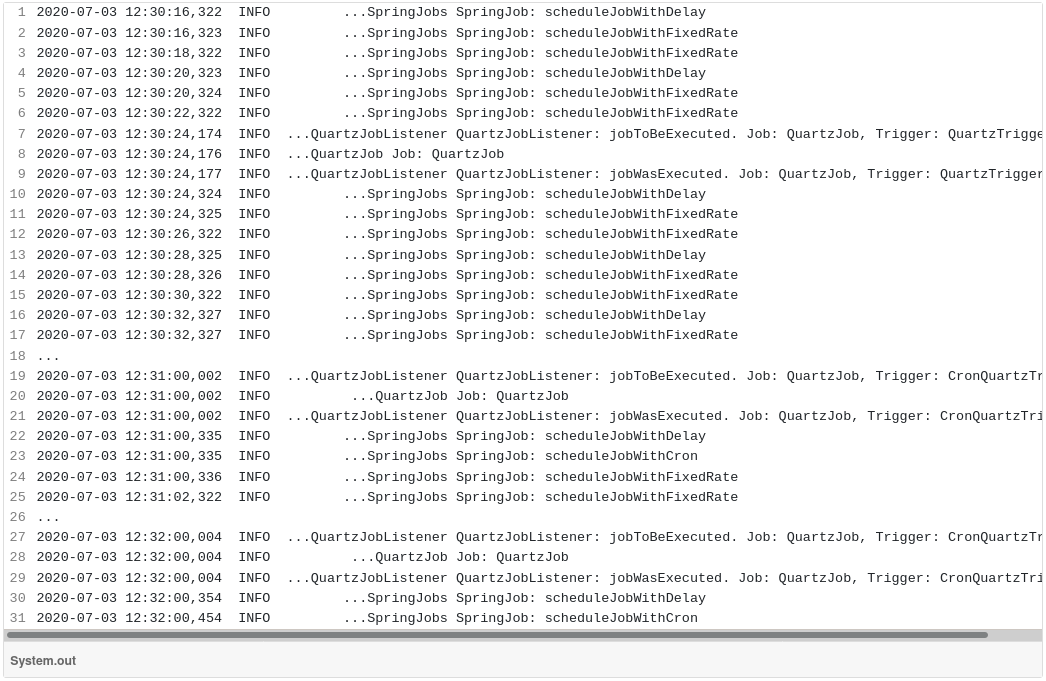
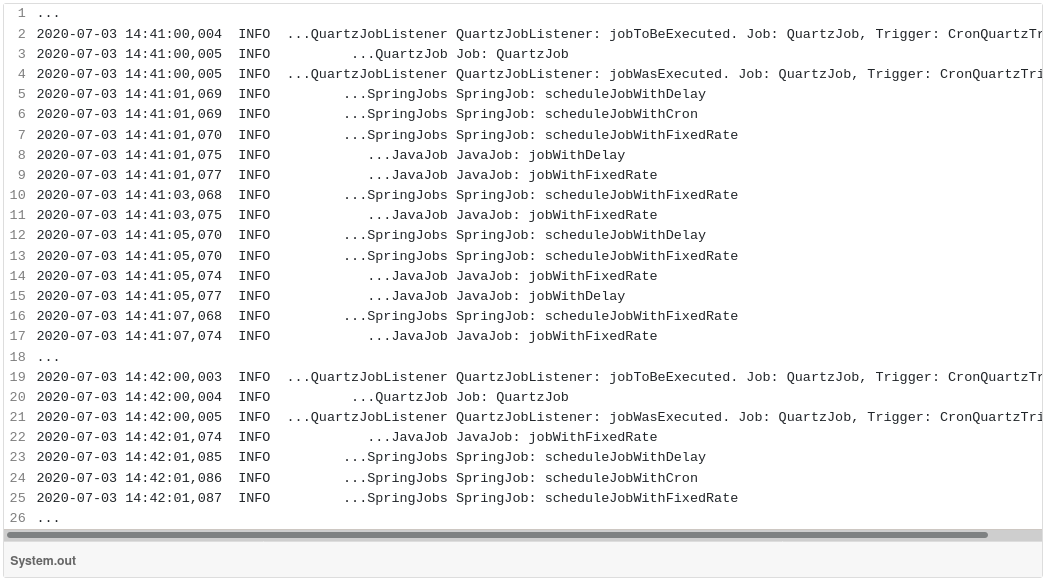
Pequeños retoques

diff --git a/content/2020/2020-07-03-tareas-programadas-de-forma-periodica-con-quartz-y-spring-en-java/code/Main-1.java b/content/2020/2020-07-03-tareas-programadas-de-forma-periodica-con-quartz-y-spring-en-java/code/Main-1.java
@@ -9,21 +9,35 @@ import org.quartz.SchedulerException;
 import org.quartz.SimpleScheduleBuilder;
 import org.quartz.Trigger;
 import org.quartz.TriggerBuilder;
+import org.springframework.beans.factory.annotation.Autowired;
 import org.springframework.beans.factory.annotation.Qualifier;
 import org.springframework.boot.CommandLineRunner;
 import org.springframework.boot.SpringApplication;
 import org.springframework.boot.autoconfigure.SpringBootApplication;
 import org.springframework.boot.autoconfigure.quartz.SchedulerFactoryBeanCustomizer;
+import org.springframework.boot.context.event.ApplicationStartedEvent;
+import org.springframework.context.ApplicationContext;
+import org.springframework.context.ApplicationEvent;
+import org.springframework.context.ApplicationListener;
 import org.springframework.context.annotation.Bean;
 
 import org.quartz.JobBuilder;
+import org.springframework.context.event.ContextRefreshedEvent;
+import org.springframework.context.event.ContextStartedEvent;
 import org.springframework.scheduling.annotation.EnableScheduling;
+
+import java.util.concurrent.ExecutionException;
+import java.util.concurrent.Executors;
+import java.util.concurrent.ScheduledExecutorService;
+import java.util.concurrent.TimeUnit;
 
 @SpringBootApplication
 @EnableScheduling
-public class Main {
+public class Main implements ApplicationListener {
 
     private static final Logger logger = LogManager.getLogger(Main.class);
+
+    ...
 
     @Bean(name = "QuartzJob")
     public JobDetail quartzJob() {
@@ -62,6 +76,8 @@ public class Main {
             bean.setGlobalJobListeners(listener);
         };
     }
+
+    ...
 
     public static void main(String[] args) {
         SpringApplication.run(Main.class, args);

diff --git a/content/2020/2020-07-03-tareas-programadas-de-forma-periodica-con-quartz-y-spring-en-java/code/Main-2.java b/content/2020/2020-07-03-tareas-programadas-de-forma-periodica-con-quartz-y-spring-en-java/code/Main-2.java
@@ -1,0 +1,33 @@
+package io.github.picodotdec.blogbitix.quartzspring;
+
+...
+
+@SpringBootApplication
+@EnableScheduling
+public class Main implements ApplicationListener {
+
+    private static final Logger logger = LogManager.getLogger(Main.class);
+
+    @Autowired
+    private JavaJob javaJob;
+
+    ...
+
+    @Bean
+    public JavaJob javaJob() {
+        return new JavaJob();
+    }
+
+    @Override
+    public void onApplicationEvent(ApplicationEvent event) {
+        if (event instanceof ApplicationStartedEvent) {
+            ScheduledExecutorService scheduler = Executors.newScheduledThreadPool(5);
+            scheduler.scheduleAtFixedRate(javaJob::jobWithFixedRate, 0, 2, TimeUnit.SECONDS);
+            scheduler.scheduleWithFixedDelay(javaJob::jobWithDelay, 0, 2, TimeUnit.SECONDS);
+        }
+    }
+
+    public static void main(String[] args) {
+        SpringApplication.run(Main.class, args);
+    }
+}

diff --git a/content/2020/2020-07-03-tareas-programadas-de-forma-periodica-con-quartz-y-spring-en-java/code/JavaJob.java b/content/2020/2020-07-03-tareas-programadas-de-forma-periodica-con-quartz-y-spring-en-java/code/JavaJob.java
@@ -1,0 +1,22 @@
+package io.github.picodotdec.blogbitix.quartzspring;
+
+import org.apache.logging.log4j.LogManager;
+import org.apache.logging.log4j.Logger;
+
+public class JavaJob {
+
+    private static final Logger logger = LogManager.getLogger(JavaJob.class);
+
+    public void jobWithFixedRate() {
+        logger.info("JavaJob: jobWithFixedRate");
+    }
+
+    public void jobWithDelay() {
+        try {
+            Thread.sleep(2000);
+        } catch (Exception e) {
+            logger.error(e.getMessage(), e);
+        }
+        logger.info("JavaJob: jobWithDelay");
+    }
+}

diff --git a/content/2020/2020-07-03-tareas-programadas-de-forma-periodica-con-quartz-y-spring-en-java/code/SpringJobs.java b/content/2020/2020-07-03-tareas-programadas-de-forma-periodica-con-quartz-y-spring-en-java/code/SpringJobs.java
@@ -17,8 +17,12 @@ public class SpringJobs {
 
 
     @Scheduled(fixedDelay = 2000)
-    public void scheduleJobWithDelay() throws Exception {
-        Thread.sleep(2000);
+    public void scheduleJobWithDelay() {
+        try {
+            Thread.sleep(2000);
+        } catch (Exception e) {
+            logger.error(e.getMessage(), e);
+        }
         logger.info("SpringJob: scheduleJobWithDelay");
     }
 
